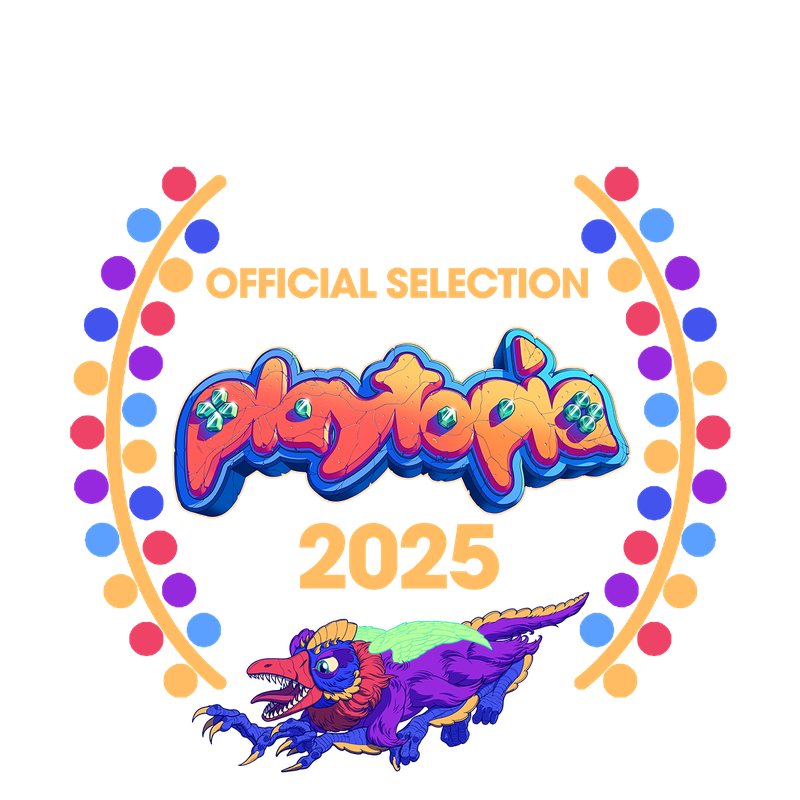
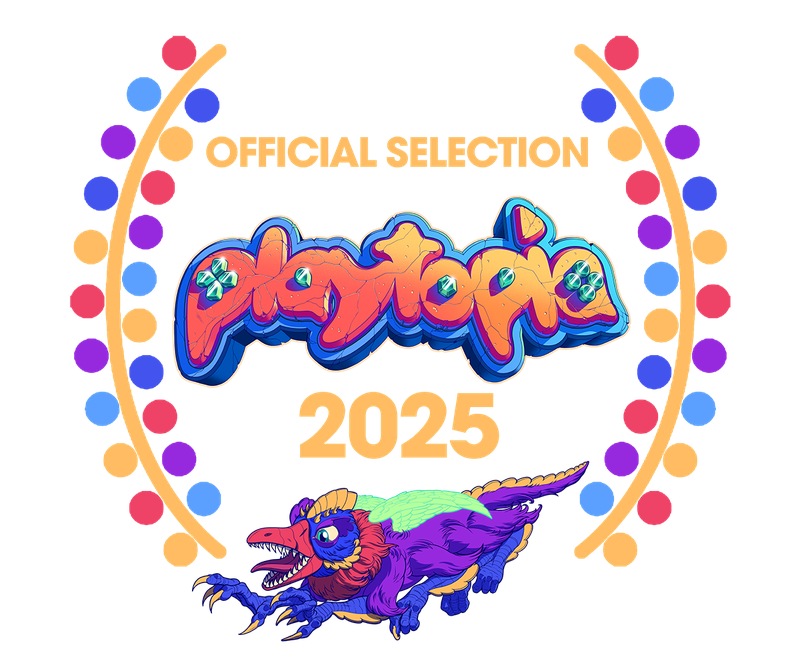
kabooooom

diff --git a/breadleg.html b/breadleg.html
@@ -36,9 +36,16 @@
 		<div class="grid">
 					<div class="column2">
 						<p> Breadleg is an absurdist, comedy game about running round a scottish village as a piece of bread with legs. Encounter the people of the village and collect socks to help you escape without being eaten, whilst maybe getting involved in a bit of mischief along the way.</p> 
-						<p> Solo project. Released on itch.io on 17th May 2025, but I'm open to develop this further!</p>
-						<p> Featured as a guest project at ECGX 2025 and at Playtopia 2025</p>
-						<img style="width:50%; margin: auto; display:block" src="assets/awards/p.png">
+						<p> Solo project. Released on itch.io on 17th May 2025, but I'm very open to discussions on developing this further!</p>
+						<p> Featured at Kaboom Animation Festival 2026 and at Playtopia 2025!</p>
+						<div class="grid">
+							<div class="column2">
+								<img style="width:120%;" src="assets/awards/KaboomLaurel.png">
+							</div>
+							<div class="column2">
+								<img style="width:100%;" src="assets/awards/p.png">
+							</div>
+						</div>
 					</div>
 					<div class="column2">
 							<img src="assets/breadleg/poster.jpeg">

diff --git a/index.html b/index.html
@@ -13,7 +13,6 @@
 <meta name="p:domain_verify" content="74ee8f1178da5fe7331ba4b3390afa61"/>
   </head>  
   <body>
-	
 	<div class="header" id="myHeader">
 		<nav id="navlinks">
 		<!--script loads nav into this tag-->
